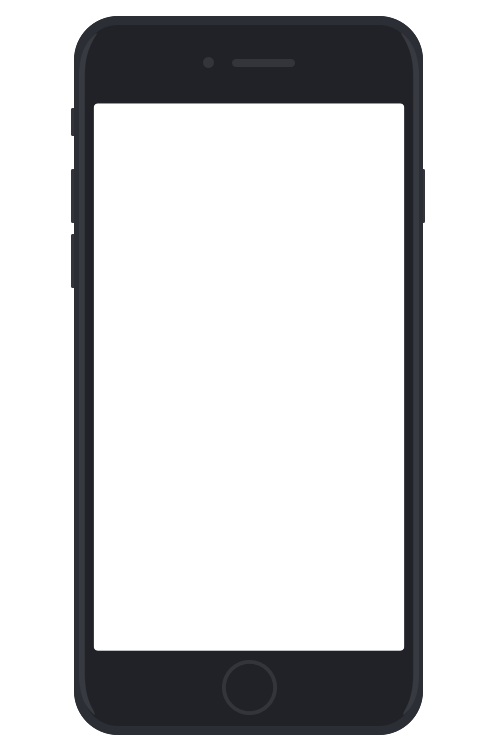
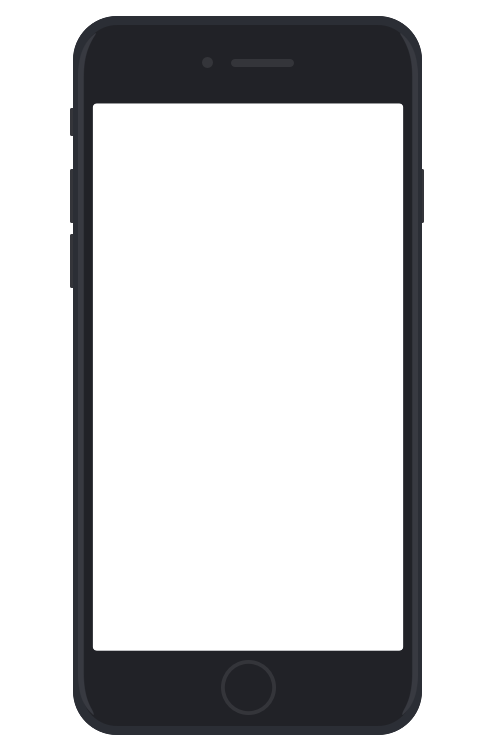
img

diff --git a/www/css/ios.css b/www/css/ios.css
@@ -52,6 +52,8 @@ padding-top:60px;
     margin: 0 auto ;
     display: block;
     align-content: center;
+
+    padding-top: 118px;
 	}
 
 .demo-statusbar {
@@ -61,18 +63,27 @@ padding-top:60px;
     z-index: 999;
     margin-top: 98px;
     margin-left: 90px;
-margin-left:calc(50% - 145px);
+margin-left:calc(50% - 160px);
     padding: 5px 0;
-    /* position: absolute; */
+    position: absolute;
 }
 .demo-device-ios{
     /* margin-top: 116px; */
-    margin-top: calc(50% - 200px);
+    /* margin-top: 0px;
     width: 292px;
     height: 500px;
-    margin-left:calc(50% - 145px);
+    margin-left:calc(50% - 160px); */
     /* margin: 0 auto; */
     /* margin-left: 91px; */
+
+        width: 292px;
+        margin: auto;
+        height: 500px;
+        /* margin-left: calc(50% - 160px); */
+        /* margin: 0 auto; */
+        /* margin-left: 91px; */
+        position: relative;
+        display: block;
 }
 .demo-github{
     border: 1px solid #3FB869;

diff --git a/www/demo.html b/www/demo.html
@@ -39,7 +39,7 @@
 
   <div class="demo-row">
       <div class="demo-device-bg">
-        <img class="demo-statusbar" src="img/ios-statusbar.png">
+        <!-- <img class="demo-statusbar" src="img/ios-statusbar.png"> -->
         <iframe class="demo-device-ios" src="index.html">
 
         </iframe>
